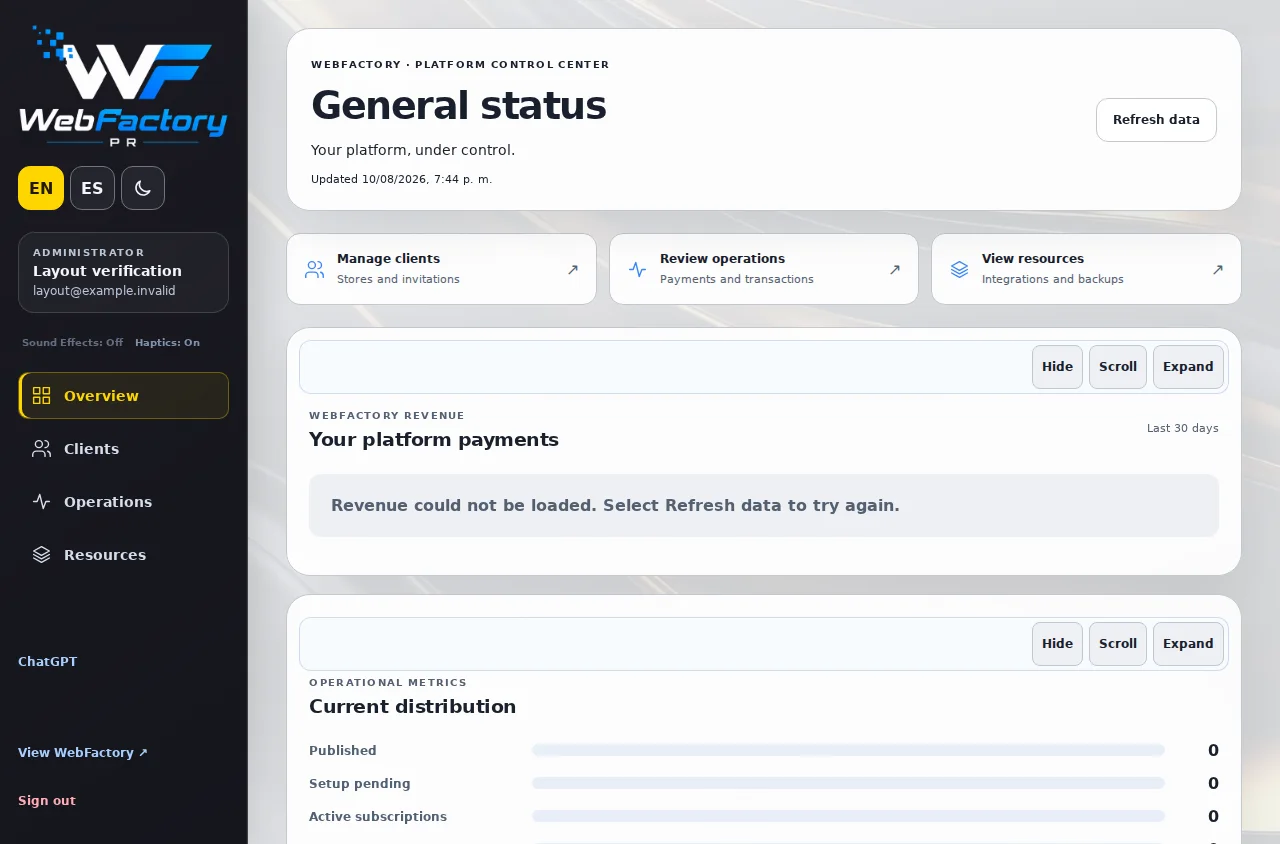
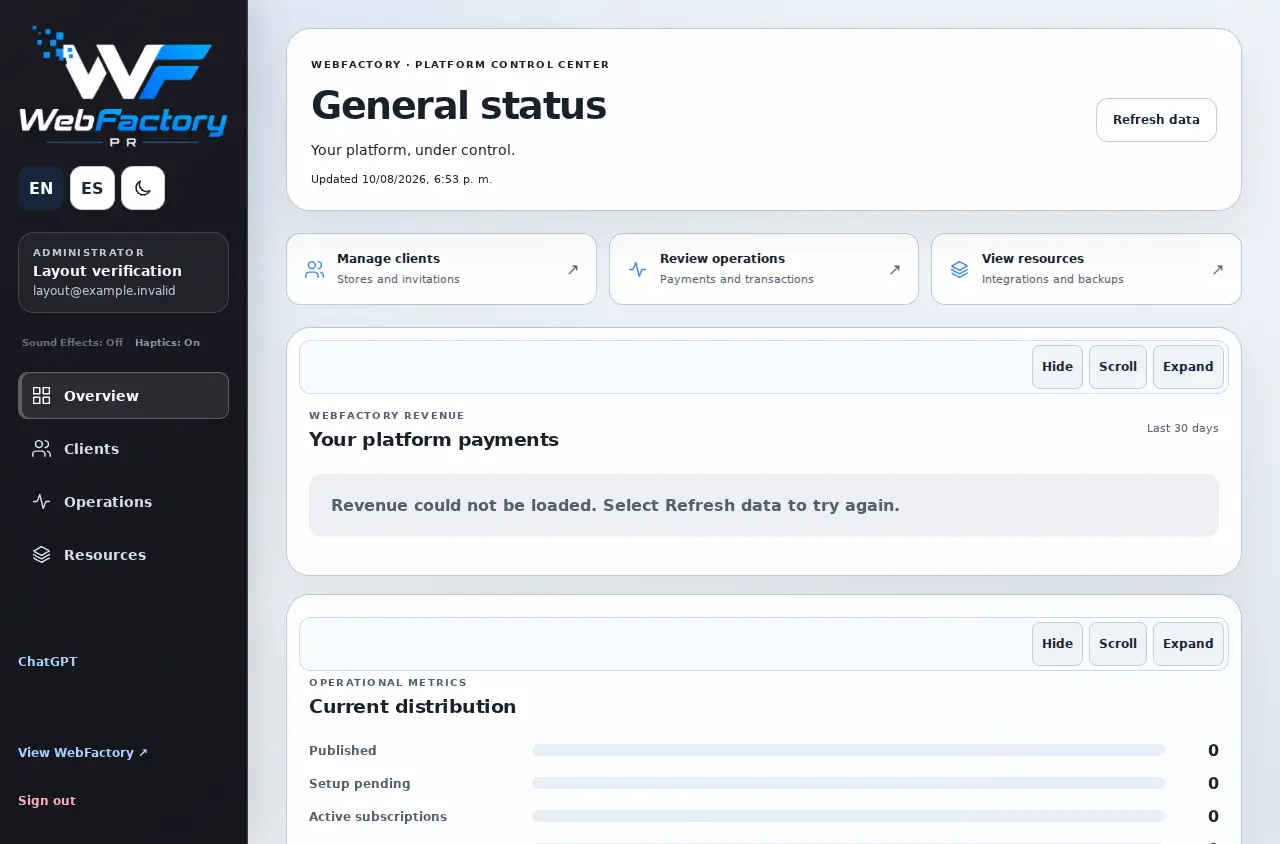
fix: verify button contrast and refresh all portal preview captures

diff --git a/src/StyleReferenceReview.tsx b/src/StyleReferenceReview.tsx
@@ -14,8 +14,8 @@ export default function StyleReferenceReview({ lang, device, theme }: {
   const es = lang === 'es', width = device === 'mobile' ? 390 : 1280
   return <div className="pr-style-review">
     <p className="pr-caption">{es ? 'Estilos adaptados de tus cuatro archivos. Capturas del código real con datos de ejemplo.' : 'Styles adapted from your four files. Captures of the actual code using sample data.'}</p>
-    <section><h2>{es ? 'Login Glassy' : 'Glassy login'}</h2><p><a href="/client-admin">{es ? 'Abrir login de clientes' : 'Open client login'} ↗</a> · <a href="/webfactory-admin">{es ? 'Abrir login administrativo' : 'Open admin login'} ↗</a></p><figure className="pr-shot"><img src={`/preview-review/styles/login-${width}-${theme}.webp`} alt={es ? 'Login con paisaje violeta y formulario de vidrio' : 'Login with purple landscape and glass form'} /></figure></section>
-    <section><h2>{es ? 'Dashboards Glassy' : 'Glassy dashboards'}</h2><div className="pr-style-dashboards">{(['client-admin', 'webfactory-admin'] as const).map(portal => <figure className="pr-shot" key={portal}><img src={`/preview-review/styles/${portal}-overview-${width}-${theme}.webp`} alt={portal === 'client-admin' ? (es ? 'Panel de negocio con vidrio y fondo dorado' : 'Business dashboard with glass and gold backdrop') : (es ? 'Centro administrativo con vidrio y fondo dorado' : 'Administrative center with glass and gold backdrop')} /><figcaption>{portal === 'client-admin' ? (es ? 'Panel del negocio · Datos de ejemplo' : 'Business dashboard · Sample data') : (es ? 'Centro administrativo · Datos de ejemplo' : 'Administrative center · Sample data')}</figcaption></figure>)}</div></section>
+    <section><h2>{es ? 'Login Glassy' : 'Glassy login'}</h2><p><a href="/client-admin">{es ? 'Abrir login de clientes' : 'Open client login'} ↗</a> · <a href="/webfactory-admin">{es ? 'Abrir login administrativo' : 'Open admin login'} ↗</a></p><figure className="pr-shot"><img src={`/preview-review/styles/login-${width}-${theme}.webp`} alt={es ? 'Login con fondo original, botones azules y formulario de vidrio' : 'Login with original background, blue buttons and glass form'} /></figure></section>
+    <section><h2>{es ? 'Dashboards Glassy' : 'Glassy dashboards'}</h2><div className="pr-style-dashboards">{(['client-admin', 'webfactory-admin'] as const).map(portal => <figure className="pr-shot" key={portal}><img src={`/preview-review/styles/${portal}-overview-${width}-${theme}.webp`} alt={portal === 'client-admin' ? (es ? 'Panel de negocio con vidrio y fondo original' : 'Business dashboard with glass and original background') : (es ? 'Centro administrativo con vidrio y fondo original' : 'Administrative center with glass and original background')} /><figcaption>{portal === 'client-admin' ? (es ? 'Panel del negocio · Datos de ejemplo' : 'Business dashboard · Sample data') : (es ? 'Centro administrativo · Datos de ejemplo' : 'Administrative center · Sample data')}</figcaption></figure>)}</div></section>
     <section><h2>{es ? 'Recibo con efecto de impresión' : 'Receipt with printing effect'}</h2><p className="pr-caption">{es ? 'Vista visual con datos de ejemplo. En el portal, el papel muestra el recibo guardado y conserva PDF y reenvío.' : 'Visual preview with sample data. The portal paper displays the saved receipt and retains PDF and resend.'}</p><div className="pr-style-receipt" key={`${device}-${theme}`}><ReceiptPaper receipt={sample} lang={lang}/></div></section>
     <section><h2>{es ? 'Animación hacia el carrito' : 'Fly-to-cart animation'}</h2><p>{es ? 'Abre el catálogo del template y pulsa Añadir para ver cómo la imagen llega al carrito.' : 'Open the template catalog and press Add to see the image fly to the cart.'}</p><a href="/templates/brisa-cocina#services">{es ? 'Probar el carrito del template' : 'Try the template cart'} ↗</a></section>
   </div>

diff --git a/src/portal-glass.css b/src/portal-glass.css
@@ -154,6 +154,11 @@ html[data-wf-theme=dark] body #root .wf-portal-scene-copy :is(small,h2,p){color:
 html body #root :is(.ca-page,.wfa-login-page,.ca-dashboard,.wfa-dashboard.wfa-premium) :is(button,.wf-theme-toggle){--pg-solid:#fff;--pg-soft:#f0f4f8;--pg-text:#17263b;--pg-line:#c2cedc;--pg-accent:#2867b2}
 html[data-wf-theme=dark] body #root :is(.ca-page,.wfa-login-page,.ca-dashboard,.wfa-dashboard.wfa-premium) :is(button,.wf-theme-toggle){--pg-solid:#132033;--pg-soft:#1e2d42;--pg-text:#f2f6fc;--pg-line:#41536c;--pg-accent:#91bfff}
 
+html body #root :is(.ca-login,.wfa-login) :is(.portal-language button,.wf-theme-toggle,.portal-return-home){background:#fff!important;color:#17263b!important;border-color:#c2cedc!important}
+html body #root :is(.ca-login,.wfa-login) .portal-language button.active{background:#17263b!important;color:#fff!important;border-color:#17263b!important}
+html[data-wf-theme=dark] body #root :is(.ca-login,.wfa-login) :is(.portal-language button,.wf-theme-toggle,.portal-return-home){background:#132033!important;color:#f2f6fc!important;border-color:#41536c!important}
+html[data-wf-theme=dark] body #root :is(.ca-login,.wfa-login) .portal-language button.active{background:#f2f6fc!important;color:#132033!important;border-color:#f2f6fc!important}
+
 @media(forced-colors:active){html body #root :is(.ca-page,.wfa-login-page,.ca-dashboard,.wfa-dashboard.wfa-premium){background:Canvas!important}html body #root :is(.ca-login,.wfa-login,.ca-sidebar,.wfa-sidebar,.ca-panel,.wfa-card,input,select,textarea,button){background:Canvas!important;color:CanvasText!important;border-color:ButtonText!important}.wf-portal-scene-copy{display:none}}
 html body :is(.ca-login,.wfa-login) .portal-return-home svg{width:28px;height:28px}
 
